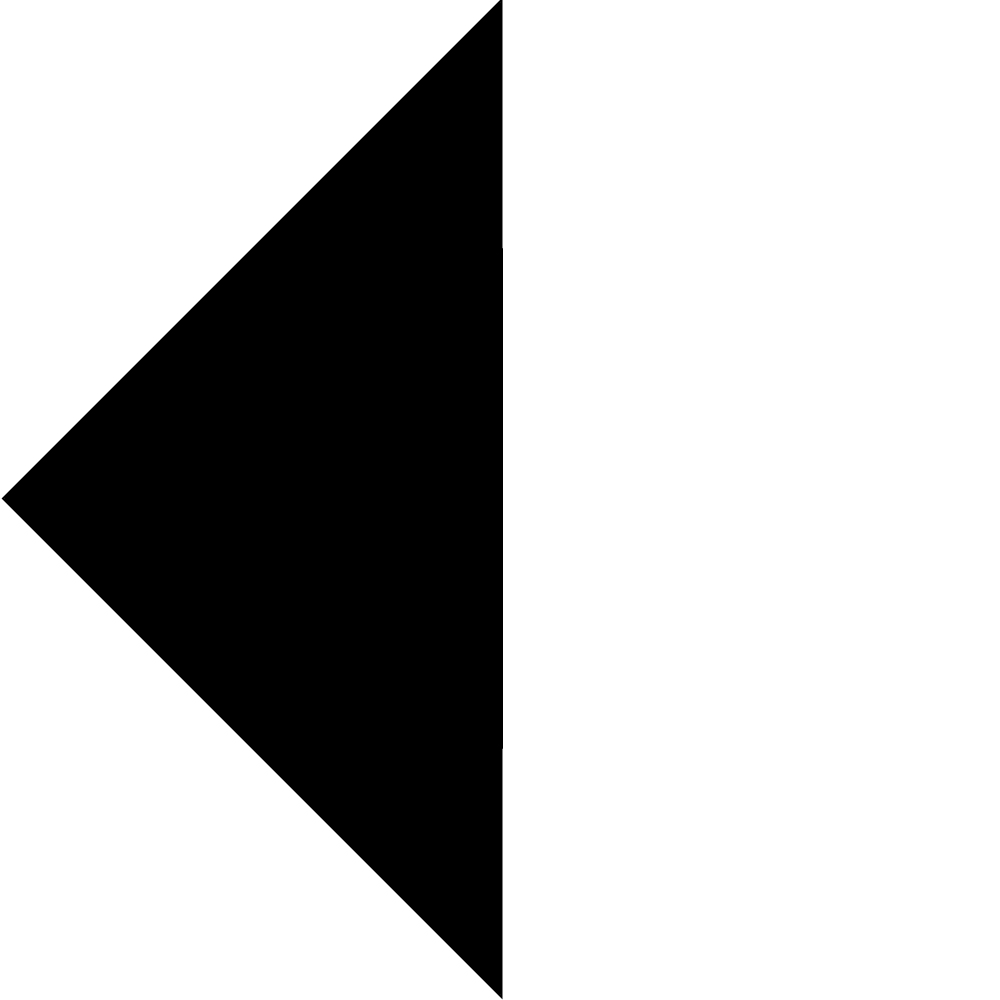
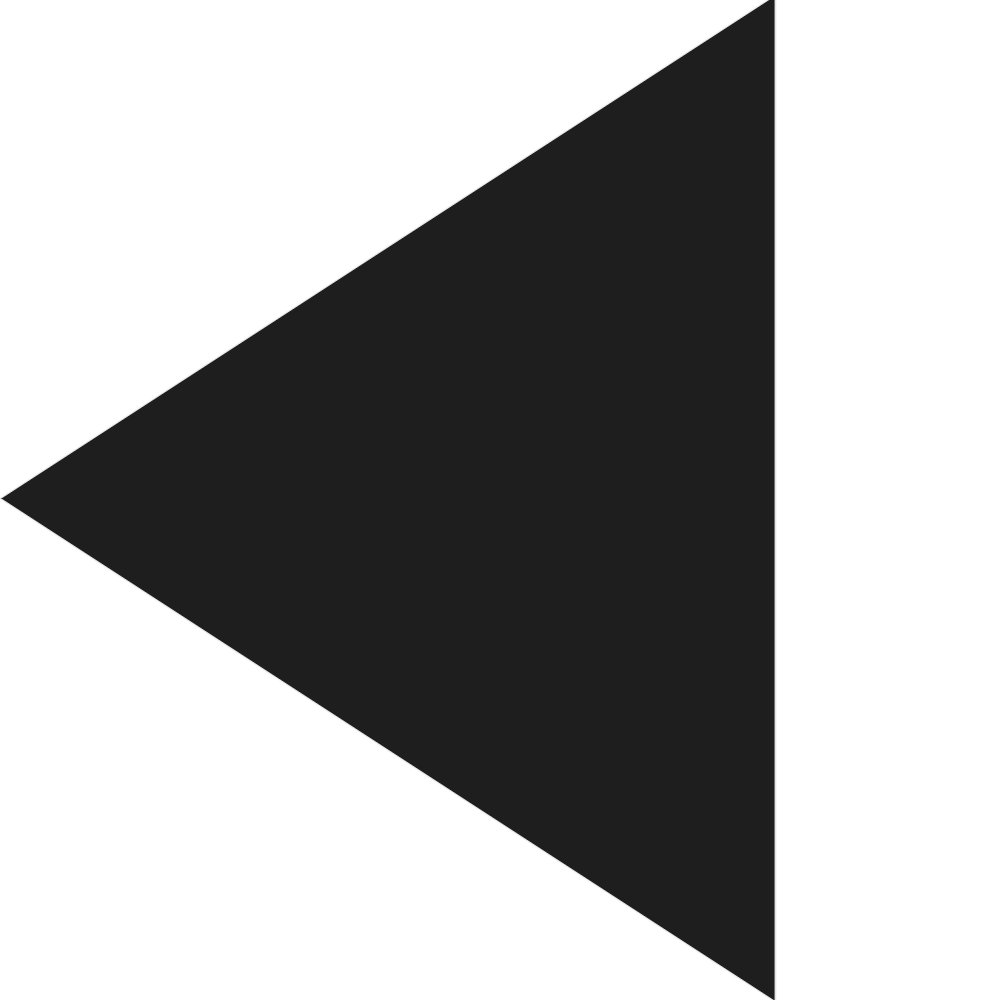
changed carousel

diff --git a/index.html b/index.html
@@ -10,9 +10,7 @@
         crossorigin="anonymous">
     <link rel="stylesheet" href="https://stackpath.bootstrapcdn.com/bootstrap/4.2.1/css/bootstrap.min.css" integrity="sha384-GJzZqFGwb1QTTN6wy59ffF1BuGJpLSa9DkKMp0DgiMDm4iYMj70gZWKYbI706tWS"
         crossorigin="anonymous">
-    <link rel="stylesheet" href="https://cdnjs.cloudflare.com/ajax/libs/Swiper/4.4.6/css/swiper.css">
     <link rel="stylesheet" href="https://cdnjs.cloudflare.com/ajax/libs/Swiper/4.4.6/css/swiper.min.css">
-    <link rel="stylesheet" href="path/to/swiper.min.css">
     <link rel="stylesheet" href="style.css">
     <link rel="stylesheet" href="animation.css">
 </head>
@@ -96,50 +94,48 @@
 
     <!------CAROUSEL------>
 
-    <div id="carouselExampleIndicators" class="carousel slide">
-        <ol class="carousel-indicators">
-            <li data-target="#carouselExampleIndicators" data-slide-to="0" class="active"></li>
-            <li data-target="#carouselExampleIndicators" data-slide-to="1"></li>
-            <li data-target="#carouselExampleIndicators" data-slide-to="2"></li>
-        </ol>
-        <div class="carousel-inner">
-            <div class="carousel-item active">
-                <img src="Images/slide-1.png" class="d-block w-100" alt="...">
-                <div class="carousel-caption d-none d-md-block">
-                    <h1 class="">Vi är specialiserade på</h1>
+    <div class="swiper-container">
+        <!-- Additional required wrapper -->
+        <!--<div style="background-image: url(Images/Repeat_Grid_5.png);" data-swiper-parallax="-90%"></div>-->
+        <div class="swiper-wrapper">
+            <!-- Slides -->
+            <div class="swiper-slide">
+                <img src="Images/slide-1.png" alt="">
+                <div class="title" id="title_#">Vi är specialiserade på</div>
+                <div class="text" data-swiper-parallax="-100" style="transform: translate3d(0px, 0px, 0px);">
                     <p>Windows 2000, XP, Vista, Windows 7, Windows 8, Windows 10. Mac OS 7 till 10.x
                         Persondatorer, servrar, nätverk och säkerhet
                         Hårdvara och operativsystem
                         Nätverksfel, virusrensningar, säkerhets- och utskriftsproblem... </p>
                 </div>
             </div>
-            <div class="carousel-item">
-                <img src="Images/slide-2.png" class="d-block w-100" alt="...">
-                <div class="carousel-caption d-none d-md-block">
-                    <h1>Installation & konfiguration</h1>
+            <div class="swiper-slide">
+                <img src="Images/slide-2.png" alt="">
+                <div class="title" data-swiper-parallax="-300" style="transform: translate3d(0px, 0px, 0px);">Installation
+                    & konfiguration</div>
+                <div class="text" data-swiper-parallax="-100" style="transform: translate3d(0px, 0px, 0px);">
                     <p>Du har köpt en ny maskinvara och du har problem med installering / konfigurering ? Vi kan hjälpa
                         dig att ställa in din nätverk (skrivare, server, arbetsstation, router, modem etc... Våra
                         tjänster riktar sig mot både privatpersoner och företag.</p>
                 </div>
             </div>
-            <div class="carousel-item">
-                <img src="Images/slide-3.png" class="d-block w-100" alt="...">
-                <div class="carousel-caption d-none d-md-block">
-                    <h1>Övervakningskamera Smart Hem & Trygghet</h1>
+            <div class="swiper-slide">
+                <img src="Images/slide-3.png" alt="">
+                <div class="title" data-swiper-parallax="-300" style="transform: translate3d(0px, 0px, 0px);">Övervakningskamera
+                    Smart Hem & Trygghet</div>
+                <div class="text" data-swiper-parallax="-100" style="transform: translate3d(0px, 0px, 0px);">
                     <p>Håll koll på huset - med övervakningskamera. Att kunna titta till villan även när du inte där
                         kan kännas tryggt. Det blir också enkelt att hålla koll på mängden snö på -taket på stugan
                         eller se att allt ser lugnt ut hemma, när ni är på semester...</p>
                 </div>
             </div>
         </div>
-        <a class="carousel-control-prev" href="#carouselExampleIndicators" role="button" data-slide="prev">
-            <span class="carousel-control-prev-icon prevnext" aria-hidden="true"></span>
-            <span class="sr-only">Previous</span>
-        </a>
-        <a class="carousel-control-next" href="#carouselExampleIndicators" role="button" data-slide="next">
-            <span class="carousel-control-next-icon prevnext" aria-hidden="true"></span>
-            <span class="sr-only">Next</span>
-        </a>
+        <!-- If we need pagination -->
+        <div class="swiper-pagination"></div>
+
+        <!-- If we need navigation buttons -->
+        <div class="swiper-button-prev"></div>
+        <div class="swiper-button-next"></div>
     </div>
 
     <!-- text-info -->
@@ -312,8 +308,18 @@
     </script>
 
     <!-- scrip -->
-    <link rel="stylesheet" href="https://cdnjs.cloudflare.com/ajax/libs/Swiper/4.4.6/css/swiper.css">
-    <link rel="stylesheet" href="https://cdnjs.cloudflare.com/ajax/libs/Swiper/4.4.6/css/swiper.min.css">
+    <script src="https://cdnjs.cloudflare.com/ajax/libs/Swiper/4.4.6/js/swiper.min.js"></script>
+    <script>
+        var swiper = new Swiper('.swiper-container', {
+            speed: 1000,
+            parallax: true,
+            loop: true,
+            navigation: {
+                nextEl: '.swiper-button-next',
+                prevEl: '.swiper-button-prev',
+            },
+        });
+    </script>
 
     <script src="
             https://code.jquery.com/jquery-3.3.1.slim.min.js" integrity="sha384-q8i/X+965DzO0rT7abK41JStQIAqVgRVzpbzo5smXKp4YfRvH+8abtTE1Pi6jizo"

diff --git a/style.css b/style.css
@@ -7,6 +7,7 @@
 body,
 html {
     scroll-behavior: smooth;
+    height: 100vh;
 }
 
 /* Navbar/buttons/Private,Company */
@@ -110,22 +111,59 @@ html {
     letter-spacing: -.05rem;
 }
 
-.carousel-caption {
-    display: flex !important;
-    justify-content: flex-end !important;
-    flex-direction: column !important;
-    text-align: left;
-    align-items: flex-start !important;
-    margin-bottom: 350px;
-    width: 960px;
-    animation-name: caption;
-    animation-delay: 1s;
-    animation-duration: 2s;
+.swiper-container {
+    width: 100%;
+    height: 100%;
 }
 
-.prevnext {
-    width: 40px;
-    height: 40px;
+.swiper-slide .title {
+    bottom: 20px;
+    left: 20px;
+    width: 400px;
+    float: left;
+    top: 50px;
+    position: absolute;
+    width: 100%;
+    color: #FFFFFF;
+    font-size: 3.2em;
+}
+
+.swiper-slide .text {
+    bottom: 20px;
+    left: 20px;
+    float: left;
+    top: 130px;
+    position: absolute;
+    width: 800px;
+    color: #FFFFFF;
+    font-size: 1.4em;
+}
+
+.swiper-slide img {
+    width: 100%;
+    position: absolute;
+    top: 0;
+    left: 0;
+}
+
+.swiper-pagination-bullet-active {
+    background: #000 !important;
+}
+
+.swiper-button-prev {
+    background: url(Images/prew-arrow.png)
+}
+
+.swiper-button-next {
+    background: url(Images/next-arrow.png)
+}
+
+.swiper-button-next,
+.swiper-button-prev {
+    background-size: 40px 40px;
+    background-repeat: no-repeat;
+    background-position: center;
+    width: 100px;
 }
 
 
